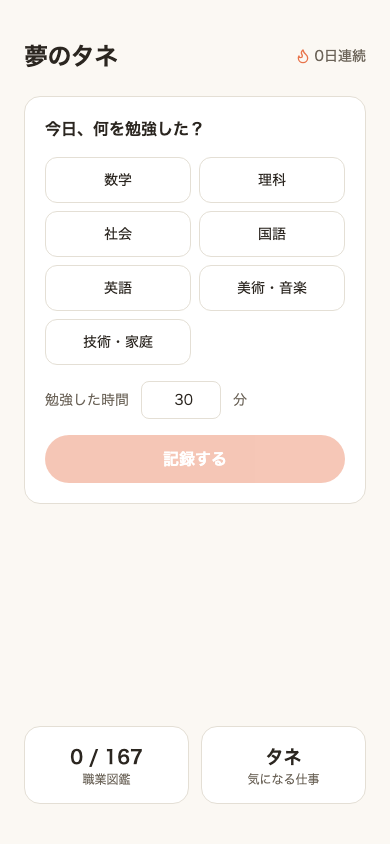
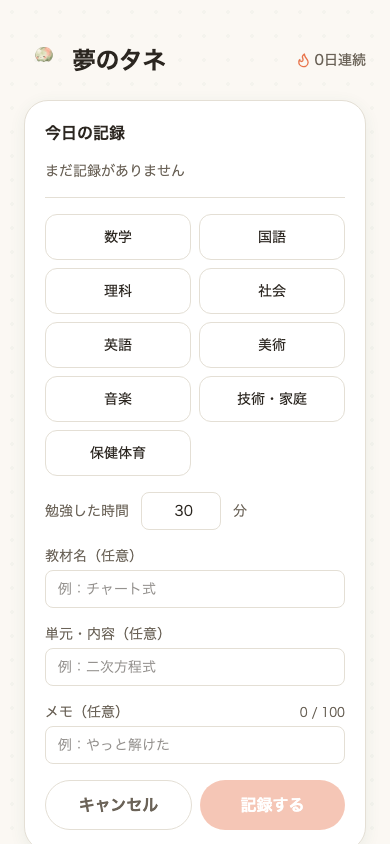
fix: LPのタネ画像を透過PNGに更新、ホーム画面モックを撮り直し
- LandingPage.tsx: タネ画像の参照を.jpgから.pngに変更
  （ファーストビュー・仕組み3ステップ・CTAの計5箇所）
- FloatingTane/StepTaneにmix-blend-mode: multiplyとobject-containを
  追加（TaneCharacter.tsxと同じ処理）
- screenshot_home.pngを本番URLから撮り直し。フォームを展開した状態で
  撮影し、9教科（保健体育・美術/音楽分離を含む）と教材名・単元・メモの
  入力欄が反映されていることを確認

Playwrightでモバイル(390px)・デスクトップ(1280px)の両方を確認。
横スクロール無し、タネ画像5箇所すべて.png・mix-blend-mode: multiply
適用済み、コンソールエラー0件。

Claude-Session: https://claude.ai/code/session_01Xf5V7BtUYAp1iWbbfdhU5c

diff --git a/web/src/components/LandingPage.tsx b/web/src/components/LandingPage.tsx
@@ -65,7 +65,7 @@ export function LandingPage({ onStart }: Props) {
             className="mt-1 flex flex-col items-center gap-3 sm:flex-row sm:gap-4"
           >
             <FloatingTane
-              src="/images/tane/stage1.jpg"
+              src="/images/tane/stage1.png"
               alt="双葉が出たタネのキャラクター"
               size={80}
             />
@@ -155,7 +155,7 @@ export function LandingPage({ onStart }: Props) {
 
         <div className="mx-auto mt-10 flex max-w-4xl flex-col items-center gap-3 sm:flex-row sm:justify-center sm:gap-3">
           <motion.div variants={fadeUp} className="flex items-center gap-2">
-            <StepTane src="/images/tane/stage0.jpg" alt="タネ（丸い状態）" />
+            <StepTane src="/images/tane/stage0.png" alt="タネ（丸い状態）" />
             <div className="relative flex w-full max-w-[190px] flex-col items-center gap-3 rounded-2xl border border-border-soft p-5 text-center">
               <span className="absolute left-4 top-3 text-xs font-bold tracking-wide text-sage-600/50">
                 01
@@ -174,7 +174,7 @@ export function LandingPage({ onStart }: Props) {
           </motion.div>
 
           <motion.div variants={fadeUp} className="flex items-center gap-2">
-            <StepTane src="/images/tane/stage1.jpg" alt="タネ（双葉が出た状態）" />
+            <StepTane src="/images/tane/stage1.png" alt="タネ（双葉が出た状態）" />
             <div className="relative flex w-full max-w-[190px] flex-col items-center gap-3 rounded-2xl border border-border-soft p-5 text-center">
               <span className="absolute left-4 top-3 text-xs font-bold tracking-wide text-sage-600/50">
                 02
@@ -193,7 +193,7 @@ export function LandingPage({ onStart }: Props) {
           </motion.div>
 
           <motion.div variants={fadeUp} className="flex items-center gap-2">
-            <StepTane src="/images/tane/stage2.jpg" alt="タネ（葉が増えた状態）" />
+            <StepTane src="/images/tane/stage2.png" alt="タネ（葉が増えた状態）" />
             <div className="relative flex w-full max-w-[190px] flex-col items-center gap-3 rounded-2xl border border-border-soft p-5 text-center">
               <span className="absolute left-4 top-3 text-xs font-bold tracking-wide text-sage-600/50">
                 03
@@ -317,7 +317,7 @@ export function LandingPage({ onStart }: Props) {
           variants={fadeUp}
           className="flex flex-col items-center gap-3 sm:flex-row sm:gap-4"
         >
-          <FloatingTane src="/images/tane/stage4.jpg" alt="花が咲いたタネのキャラクター" size={96} />
+          <FloatingTane src="/images/tane/stage4.png" alt="花が咲いたタネのキャラクター" size={96} />
           <p className="text-lg font-medium leading-loose sm:text-xl">
             今日の勉強を、記録してみませんか。
           </p>
@@ -342,7 +342,8 @@ function FloatingTane({ src, alt, size }: { src: string; alt: string; size: numb
       alt={alt}
       width={size}
       height={size}
-      className="shrink-0 rounded-2xl"
+      className="shrink-0 rounded-2xl object-contain"
+      style={{ mixBlendMode: "multiply" }}
       animate={{ y: [0, -8, 0] }}
       transition={{ duration: 3, repeat: Infinity, ease: "easeInOut" }}
     />
@@ -357,7 +358,8 @@ function StepTane({ src, alt }: { src: string; alt: string }) {
       alt={alt}
       width={48}
       height={48}
-      className="h-12 w-12 shrink-0 rounded-xl"
+      className="h-12 w-12 shrink-0 rounded-xl object-contain"
+      style={{ mixBlendMode: "multiply" }}
     />
   )
 }
